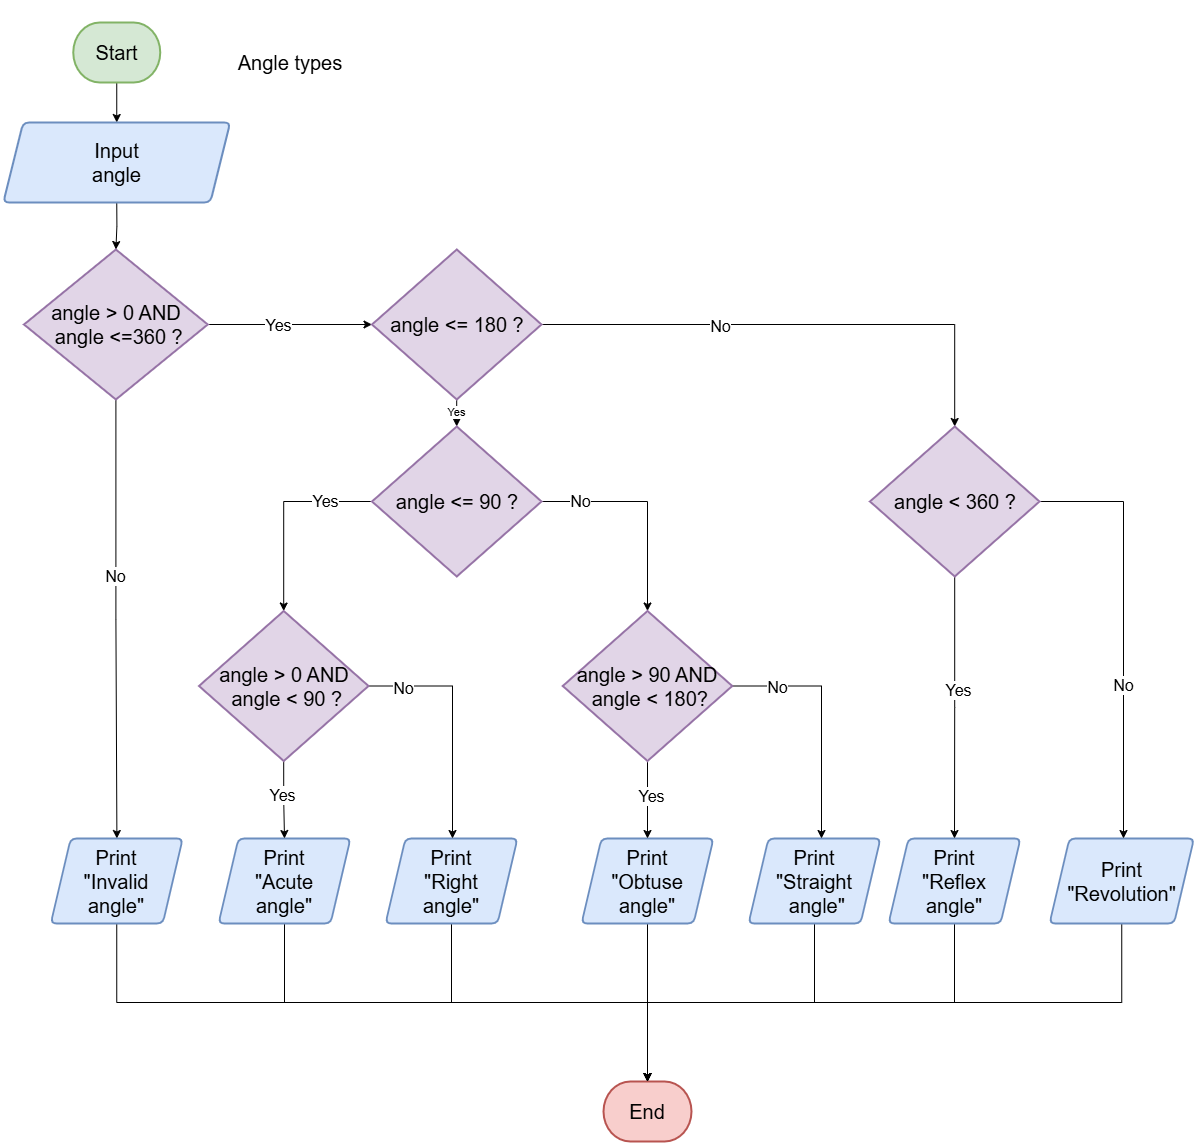
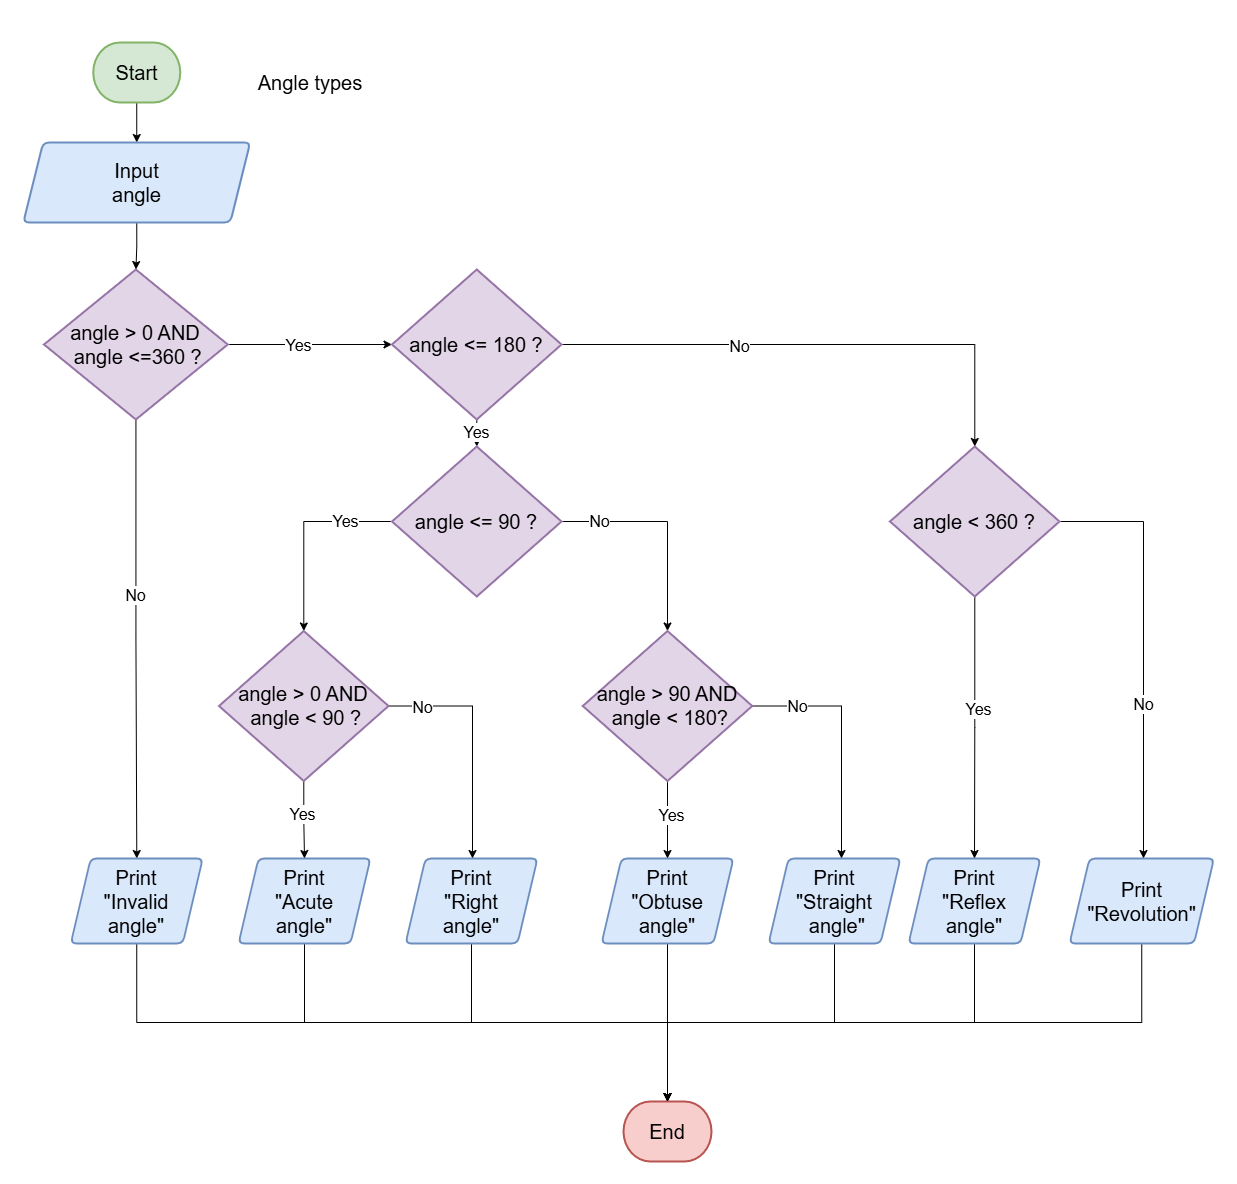
sel3

diff --git a/docs/flowcharts/flowcharts_selection7.rst b/docs/flowcharts/flowcharts_selection7.rst
@@ -50,8 +50,8 @@ Flowcharts Classify Angle Type
 
     #. On the flowchart, fill in the shapes with text to represent the pseudocode above.
 
-        .. image:: drawio_files/selection/angle_type_st.png
-            :scale: 40 %
+        .. image:: drawio_files/selection/angle_type_st.jpg
+            :scale: 20 %
             :align: center
 
     .. dropdown::
@@ -65,6 +65,6 @@ Flowcharts Classify Angle Type
 
                 On the flowchart, fill in the shapes with text to represent the pseudocode above.
 
-                .. image:: drawio_files/selection/angle_type.png
-                    :scale: 40 %
+                .. image:: drawio_files/selection/angle_type.jpg
+                    :scale: 30 %
                     :align: center
